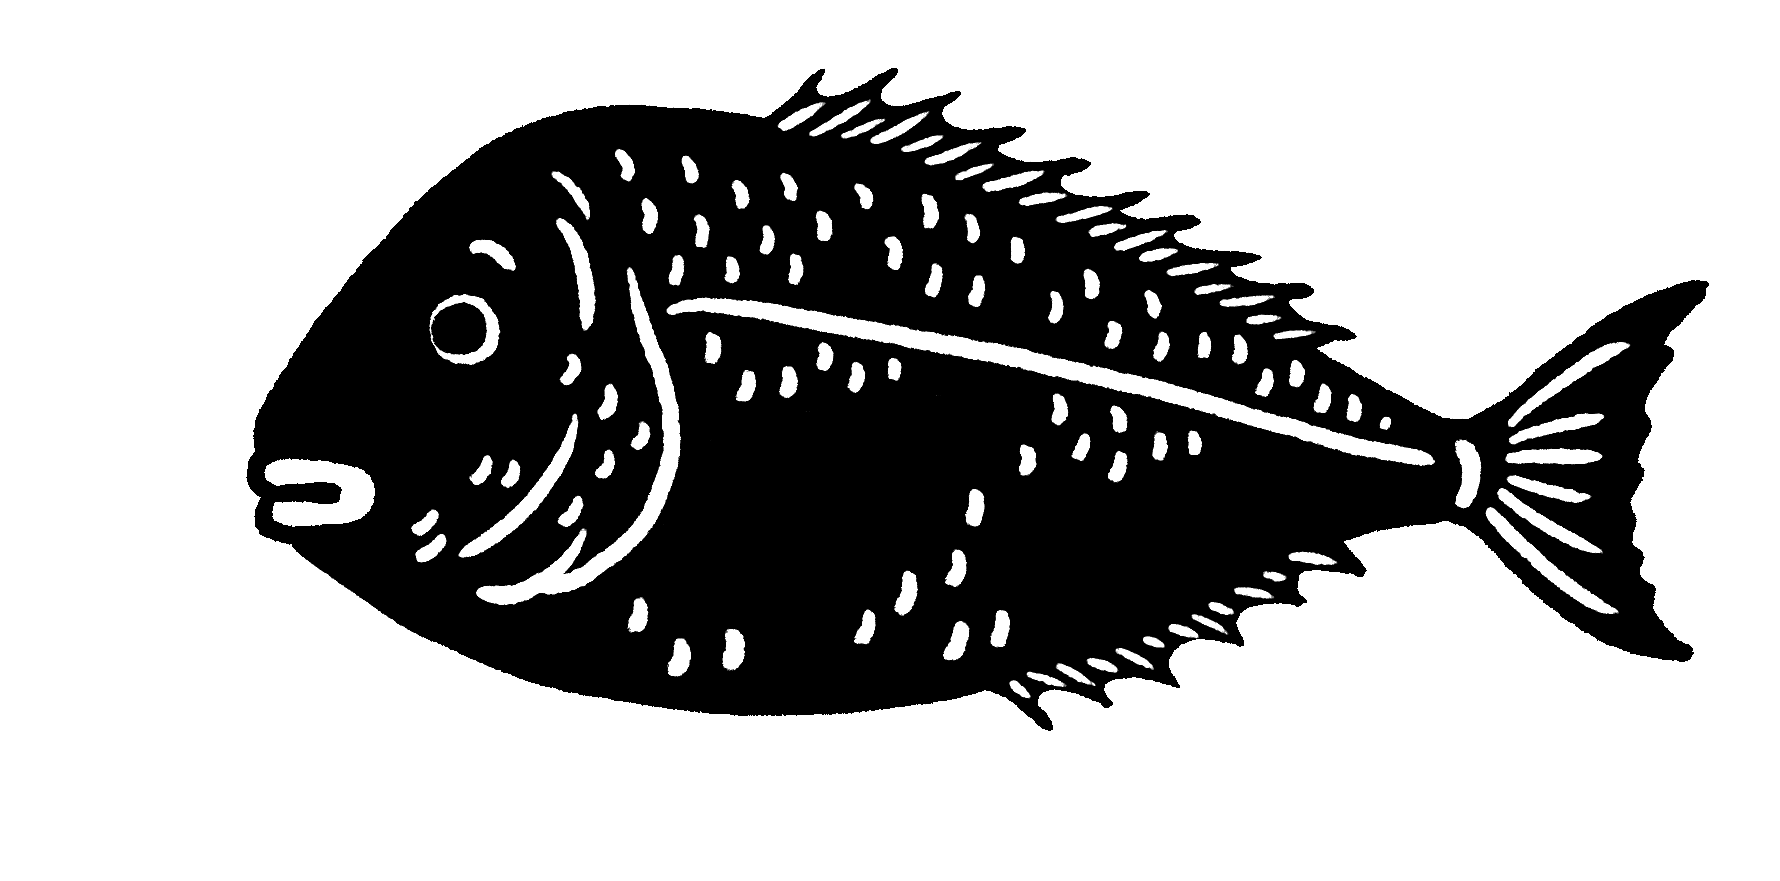
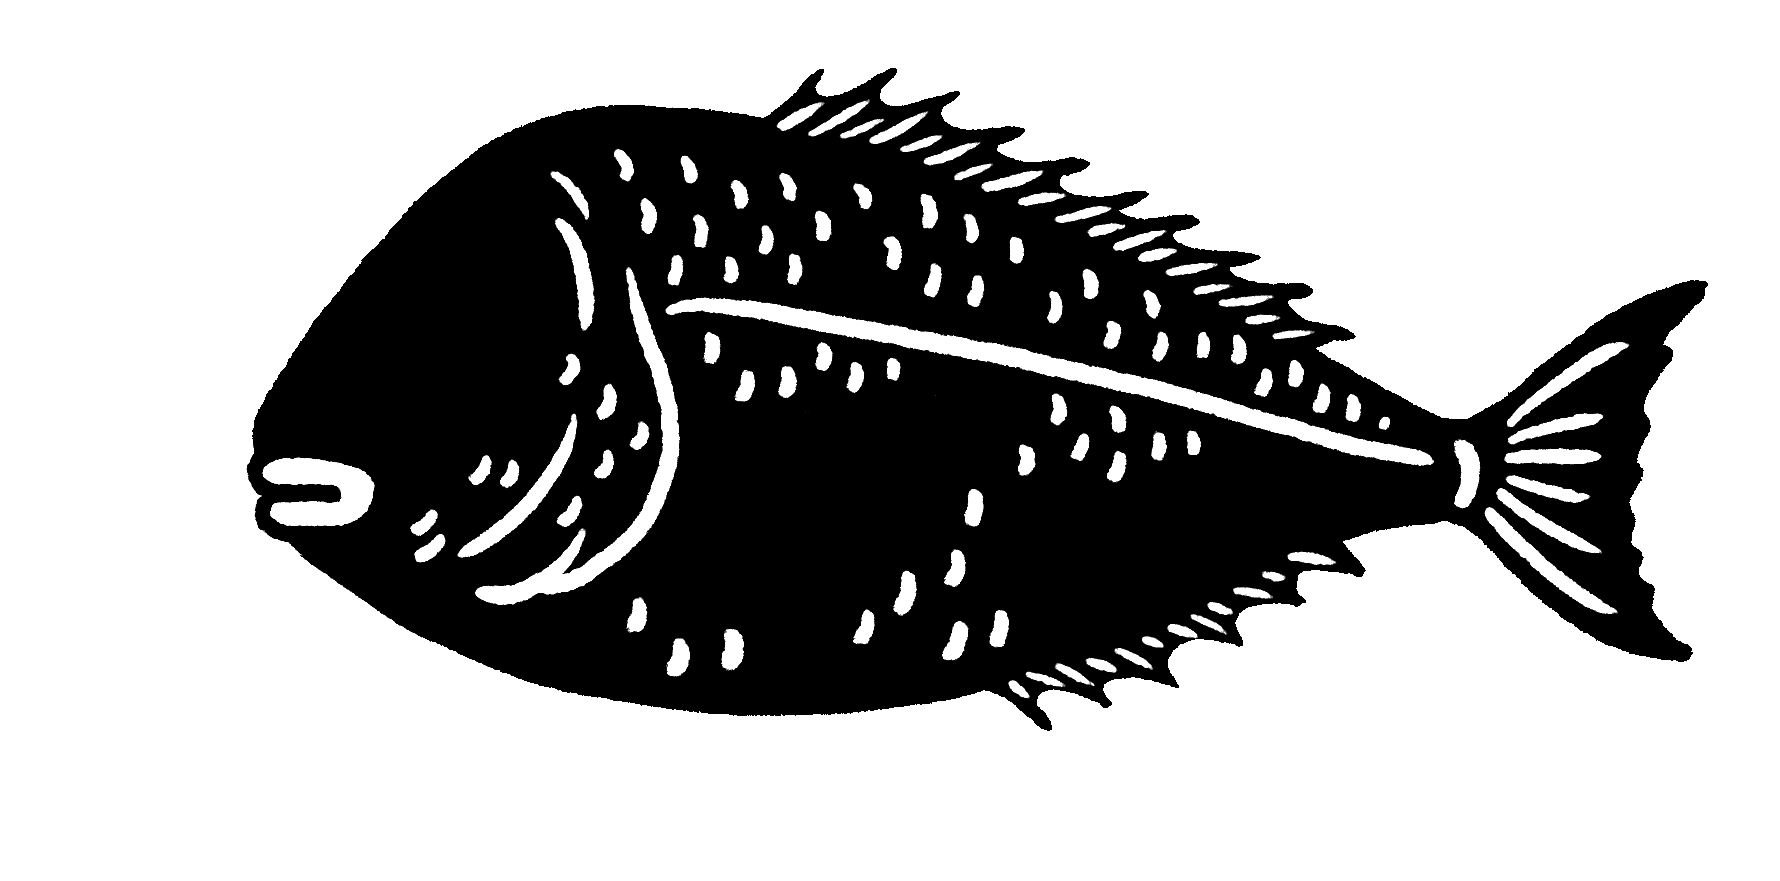
feat(swim): 瞬き + 目の body 同期 + sleep state 機構 + テストパネル整理
- swim 側に瞬き実装: body.png を目抜きの新版に差し替え、eye_open / eye_closed
  を新規追加。rig.json swim に blink config + eye layer。fish.js _drawEye の
  blink 更新を talk 限定から「dominant set に blink config があれば」に拡張。
- 目を body のしなりに同期: rig.json swim eye layer に anchor_x=470 を追加、
  fish.js _drawEye で wave_y を取って translate。固定気味で微妙に body と一体動。
- テストパネルから approach / leave ボタンを削除。内部的に速度倍率だけで
  視覚特徴がなく「機能していない」ように見えていたため。
- sleep state の機構を追加 (構造のみ、pose 値は placeholder):
  - sketch.js onEvent に 'sleep' case (_zoneState = 'sleep')
  - fish.js _speed (cycle=0 で pose 固定 / wave=0.25 で呼吸感) / setState で
    vx=0 / _drawLimb で sleep pose 上書き / _drawEye で常時閉じ目
  - rig.json swim poses.sleep は現在 [0,0] (rest と同じ姿勢で目だけ閉じる) の
    placeholder。見本に合わせたポーズ値は後日改めて設計
  - index.html に 😴 sleep ボタン追加

diff --git a/fish.js b/fish.js
@@ -149,6 +149,9 @@ class Fish {
     } else {
       this.vy = 0;                              // idle 以外は水平維持 (tilt は target=0 で自然に戻る)
     }
+    if (newState === 'sleep') {
+      this.vx = 0;                              // 寝ているときは横移動も止める
+    }
     // swim ⇄ talk の遷移: 双方向で swim rig のまま pose 角を縮めた状態を TALK_TRANSITION_MS だけ挟む。
     // 実切替は millis() で完了させる (update 側)。
     if (!wasTalking && willTalk) {
@@ -178,6 +181,7 @@ class Fish {
       case 'speak':
       case 'attentive': return { cycle: 0.95, wave: 0.7 };   // 余韻待機も話す時と同じ体の動き (口だけ閉じる)
       case 'leave':    return { cycle: 1.8, wave: 1.9 };
+      case 'sleep':    return { cycle: 0,    wave: 0.25 };   // 寝てる: pose を固定 (cycle 進めない)、しなりは弱く呼吸感
       default:         return { cycle: 1.67, wave: 1.6 };  // idle: 「両方伸びてる」区切り(p4→rest hold)をほぼ無くした分だけ全体も短縮 (他の区切りの実時間は据え置き)
     }
   }
@@ -296,18 +300,19 @@ class Fish {
     const bobAmp = (this.state === 'leave') ? 1.6 : 0.5;
     this.y += sin(this.bobPhase) * bobAmp;
 
-    // 瞬き (talk が見えているときだけ進める)
-    if (this.talkMix > 0.05) {
+    // 瞬き — swim/talk どちらでも、現在の dominant set に blink config があれば進める
+    const domBlink = this.sets[this._dominantSet()].cfg.blink;
+    if (domBlink) {
       const now = millis();
       if (this.blinkProgress < 0 && (now - this.lastBlinkAt) / 1000 > this.nextBlinkInterval) {
         this.blinkProgress = 0;
       }
       if (this.blinkProgress >= 0) {
-        this.blinkProgress += 1 / Math.max(1, Math.round(this.rig.talk.blink.dur_ms / 33.3));
+        this.blinkProgress += 1 / Math.max(1, Math.round(domBlink.dur_ms / 33.3));
         if (this.blinkProgress > 1) {
           this.blinkProgress = -1;
           this.lastBlinkAt = now;
-          this.nextBlinkInterval = random(this.rig.talk.blink.interval_min, this.rig.talk.blink.interval_max);
+          this.nextBlinkInterval = random(domBlink.interval_min, domBlink.interval_max);
         }
       }
     }
@@ -355,7 +360,7 @@ class Fish {
     switch (layer.type) {
       case 'spine':  this._drawSpine(set); break;
       case 'static': this._drawStatic(set, layer); break;
-      case 'eye':    this._drawEye(set); break;
+      case 'eye':    this._drawEye(set, layer); break;
       case 'mouth':  this._drawMouth(set); break;
       case 'limb':   this._drawLimb(set, layer, cycleKeys); break;
       default: break;
@@ -410,15 +415,27 @@ class Fish {
     }
   }
 
-  _drawEye(set) {
+  _drawEye(set, layer) {
     const b = set.cfg.blink;
     let key = b.open;
-    if (this.blinkProgress >= 0) {
+    if (this.state === 'sleep') {
+      key = b.closed;                                 // 寝ているときは常に閉じ目
+    } else if (this.blinkProgress >= 0) {
       const p = this.blinkProgress;
       if (p >= 0.25 && p <= 0.75) key = b.closed;   // 中盤だけ閉じる
     }
     const img = set.imgs[key];
-    if (img) image(img, 0, 0);
+    if (!img) return;
+    // anchor_x が指定されていれば body のしなりに同期 (目だけ画面上で固定気味だが微妙に動く)
+    const wx = (layer && layer.anchor_x != null) ? layer.anchor_x : null;
+    if (wx != null) {
+      push();
+      translate(0, this._waveYAt(set, wx));
+      image(img, 0, 0);
+      pop();
+    } else {
+      image(img, 0, 0);
+    }
   }
 
   _drawMouth(set) {
@@ -473,6 +490,11 @@ class Fish {
     if (this.idleDroop > 0 && set === this.sets.swim) {
       const d = REST_DROOP[layer.name];
       if (d) { uDeg += d.u * this.idleDroop; lDeg += d.l * this.idleDroop; }
+    }
+    // 寝ているとき: pose を sleep に固定 (cycle/transition/droop に依らず上書き)
+    if (this.state === 'sleep' && set.cfg.poses.sleep && set.cfg.poses.sleep[layer.name]) {
+      uDeg = set.cfg.poses.sleep[layer.name][0] * ampMul;
+      lDeg = set.cfg.poses.sleep[layer.name][1] * ampMul;
     }
     const uRad = uDeg * PI / 180, lRad = lDeg * PI / 180;
 

diff --git a/sketch.js b/sketch.js
@@ -45,6 +45,7 @@ let _startupSpawnIdx    = 0;      // golden-ratio で x をばらけさせるた
 // うおちゃん本体のパーツ名 (preload で全部読み込む)。実体は assets/uochan_swim/ と assets/uochan_talk/。
 const SWIM_PART_NAMES = [
   'body', 'fin',
+  'eye_open', 'eye_closed',
   'arm_l', 'arm_l_hand', 'arm_r', 'arm_r_hand',
   'leg_l', 'leg_l_shin', 'leg_r', 'leg_r_shin',
 ];
@@ -346,6 +347,7 @@ window.aquarium = {
         break;
       case 'leave':
       case 'idle':
+      case 'sleep':
         _zoneState = type;
         _conversationActive = false;              // 客が水槽前から離れた → 会話モード解除 (泳ぎ復帰)
         break;

diff --git a/index.html b/index.html
@@ -73,10 +73,9 @@
   <!-- テスト用ボタン群（? キーで表示/非表示トグル） -->
   <div id="test-panel">
     <button onclick="aquarium.test('idle')">😐 idle (泳ぐ)</button>
-    <button onclick="aquarium.test('approach')">🏃 approach</button>
     <button onclick="aquarium.test('ai_speak_start')">💬 話す (talk+口パク)</button>
     <button onclick="aquarium.test('ai_speak_end')">🤐 話し終わり (余韻5秒→泳ぐ)</button>
-    <button onclick="aquarium.test('leave')">👋 leave</button>
+    <button onclick="aquarium.test('sleep')">😴 sleep (寝る)</button>
     <button onclick="aquarium.testAddGuest()">🐟 +guest fish</button>
   </div>
 
